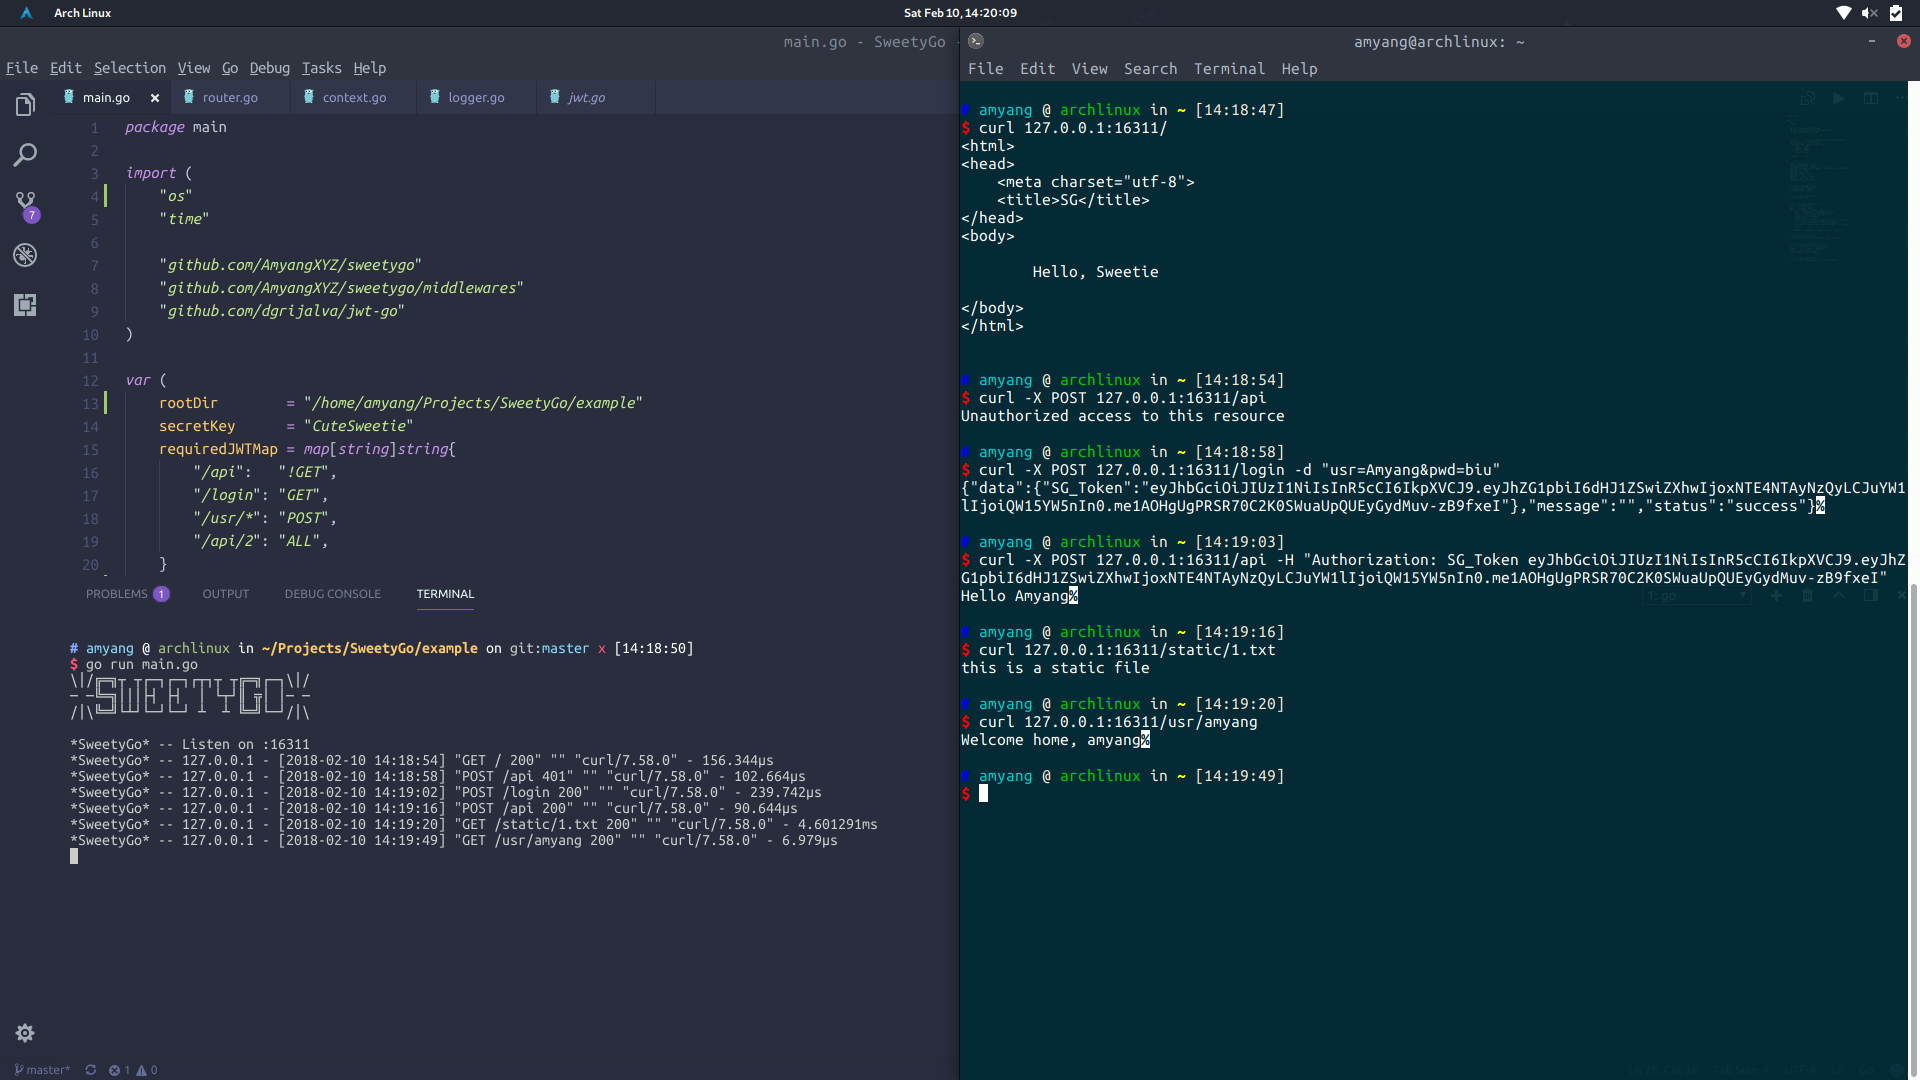
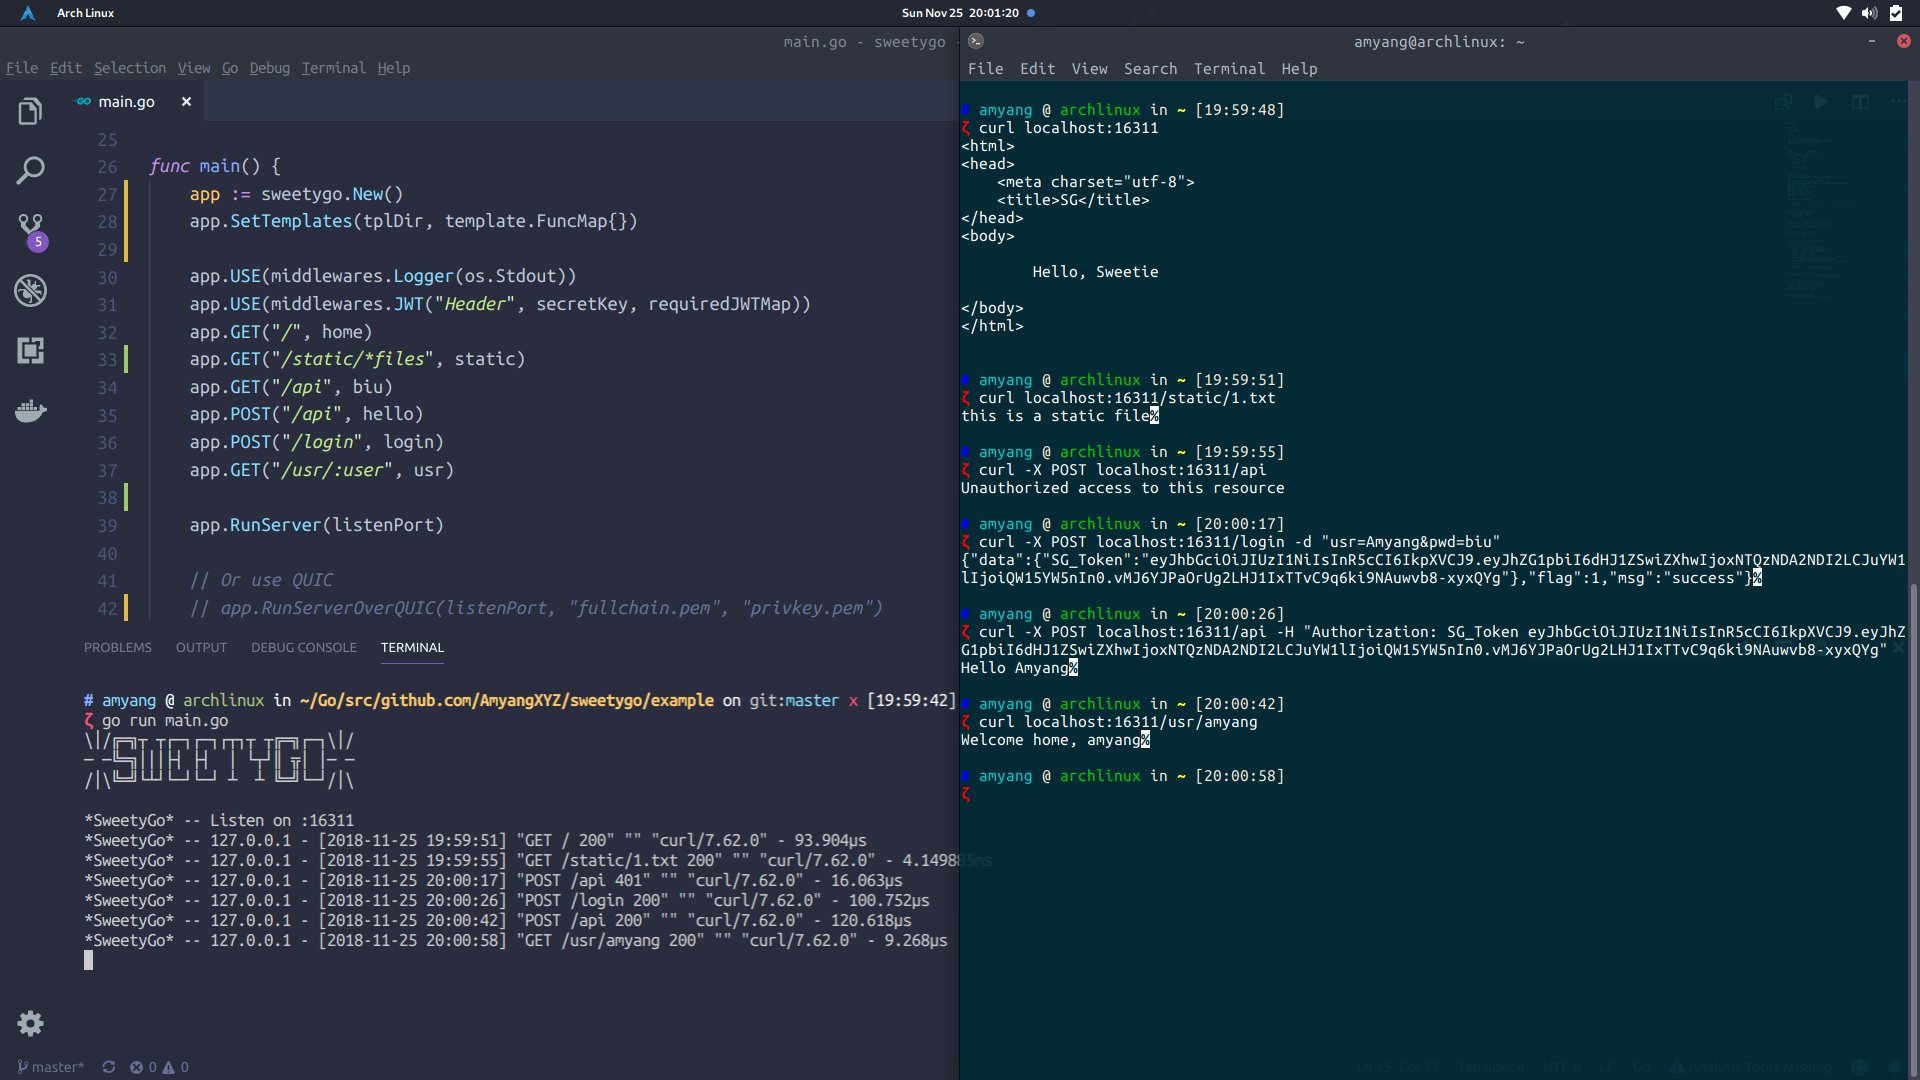
add SetTemplates method and change sg.New()

diff --git a/example/main.go b/example/main.go
@@ -2,6 +2,7 @@ package main
 
 import (
 	"html/template"
+	"net/http"
 	"os"
 	"time"
 
@@ -11,7 +12,7 @@ import (
 )
 
 var (
-	rootDir        = "/home/amyang/Projects/SweetyGo/example"
+	tplDir         = "templates"
 	secretKey      = "CuteSweetie"
 	requiredJWTMap = map[string]string{
 		"/api":   "!GET",
@@ -23,23 +24,33 @@ var (
 )
 
 func main() {
-	app := sweetygo.New(rootDir, template.FuncMap{})
+	app := sweetygo.New()
+	app.SetTemplates(tplDir, template.FuncMap{})
+
 	app.USE(middlewares.Logger(os.Stdout))
 	app.USE(middlewares.JWT("Header", secretKey, requiredJWTMap))
 	app.GET("/", home)
+	app.GET("/static/*files", static)
 	app.GET("/api", biu)
 	app.POST("/api", hello)
 	app.POST("/login", login)
 	app.GET("/usr/:user", usr)
+
 	app.RunServer(listenPort)
 
 	// Or use QUIC
-	// app.RunServerOverQUIC(listenPort, certFile, keyFile)
+	// app.RunServerOverQUIC(listenPort, "fullchain.pem", "privkey.pem")
 }
 
 func home(ctx *sweetygo.Context) {
 	ctx.Set("baby", "Sweetie")
 	ctx.Render(200, "index")
+}
+
+func static(ctx *sweetygo.Context) {
+	staticHandle := http.StripPrefix("/static",
+		http.FileServer(http.Dir("./static")))
+	staticHandle.ServeHTTP(ctx.Resp, ctx.Req)
 }
 
 func biu(ctx *sweetygo.Context) {
